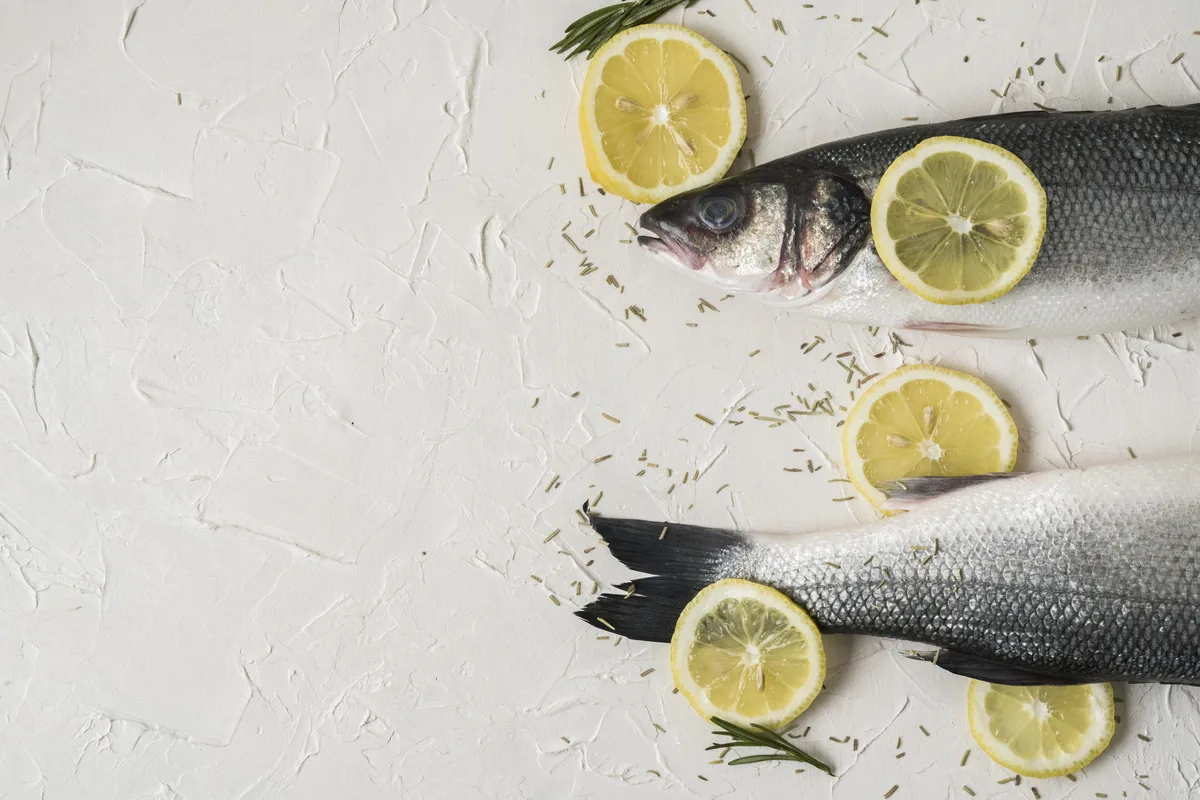
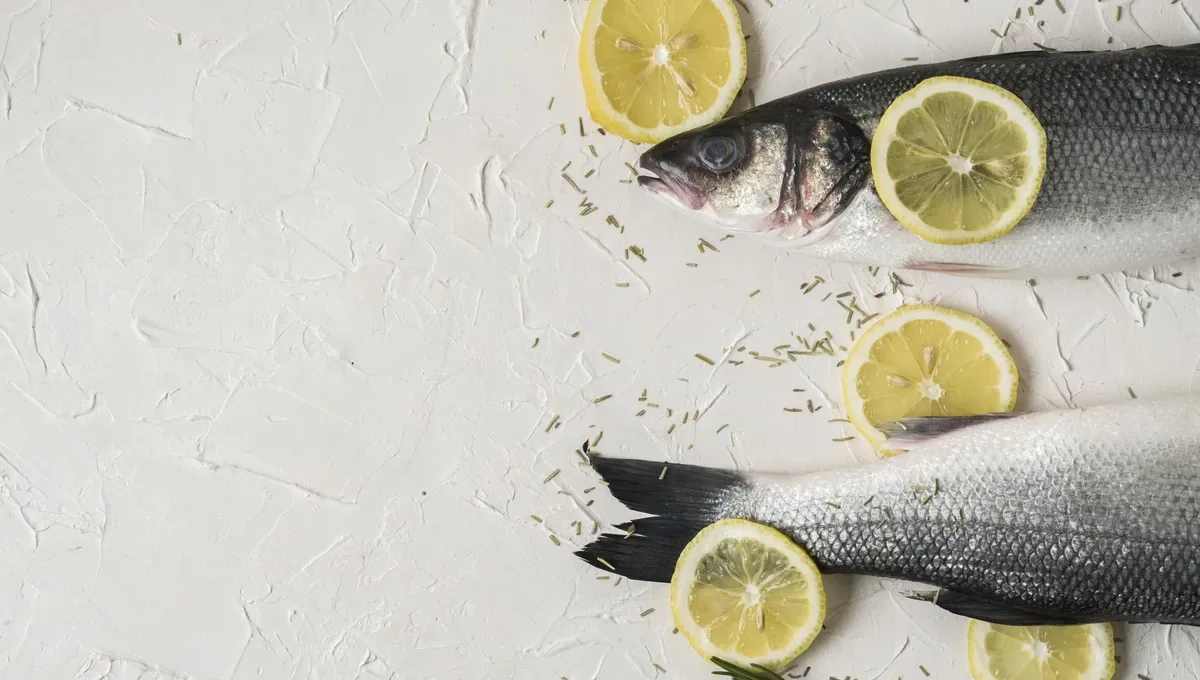
Imágenes de noticias libres y uniformes (1200 × 680)
- Sustituidas 3 imágenes copiadas de terceros: retrato de articulo14 (Dra.
  Lourdes Pérez), foto de LinkedIn de GESTPAR (Mercamadrid) y foto de prensa
  (colegio de Lleida). Las dos últimas, por fotos con licencia CC BY / CC BY-SA
  con su crédito al final de la noticia (ES/EN).
- Quitada la frase «Imagen obtenida del LinkedIn de Proyecto GESTPAR» (ES/EN).
- Resto de imágenes recortadas a 1200 × 680 sin cambiar la foto.
- build.py: huellas actualizadas de las 4 noticias antiguas editadas.
- IMAGENES.md: origen y licencia de las imágenes nuevas.

diff --git a/build.py b/build.py
@@ -142,7 +142,7 @@ LEGACY_NEWS = {
     'es/2024-11-04-el-anisakis-en-nuestros-platos-como-reducir-riesgos-y-proteger-los-oceanos.md':
[1 lines of base64/hex data omitted]
     'es/2024-11-18-expertos-debaten-en-mercamadrid-sobre-el-control-del-anisakis-en-la-distribucion-de-pescado.md':
[2 lines of base64/hex data omitted]
     'es/2024-12-09-el-anisakis-podria-estar-relacionado-con-el-cancer-de-colon-segun-medicos-espanoles.md':
[1 lines of base64/hex data omitted]
     'es/2024-12-23-espana-marca-un-hito-en-la-lucha-contra-el-anisakis-con-un-dispositivo-pionero-validado-por-el-csic.md':
@@ -154,7 +154,7 @@ LEGACY_NEWS = {
     'es/2025-04-14-como-saber-si-tengo-anisakis-causas-sintomas-y-tratamiento.md':
[1 lines of base64/hex data omitted]
     'es/2025-04-16-seguridad-alimentaria-en-comedores-escolares-que-podemos-aprender-del-caso-de-lleida.md':
[2 lines of base64/hex data omitted]
     'es/2025-04-21-cinco-especies-de-pescado-con-mas-riesgo-de-anisakis.md':
[1 lines of base64/hex data omitted]
     'es/2025-04-25-todo-lo-que-debes-saber-sobre-el-anisakis-segun-la-doctora-lourdes-perez-gonzalez.md':
@@ -164,7 +164,7 @@ LEGACY_NEWS = {
     'en/2024-11-04-anisakis-on-our-plates-how-to-reduce-risks-and-protect-the-oceans.md':
[1 lines of base64/hex data omitted]
     'en/2024-11-18-experts-discuss-anisakis-control-in-fish-distribution-at-mercamadrid.md':
[2 lines of base64/hex data omitted]
     'en/2024-12-09-anisakis-may-be-linked-to-colon-cancer-spanish-doctors-say.md':
[1 lines of base64/hex data omitted]
     'en/2024-12-23-spain-marks-a-milestone-in-the-fight-against-anisakis-with-a-pioneering-device-validated-by-csic.md':
@@ -176,7 +176,7 @@ LEGACY_NEWS = {
     'en/2025-04-14-how-do-i-know-if-i-have-anisakis-causes-symptoms-and-treatment.md':
[1 lines of base64/hex data omitted]
     'en/2025-04-16-food-safety-in-school-canteens-what-can-we-learn-from-the-case-of-lleida.md':
[2 lines of base64/hex data omitted]
     'en/2025-04-21-these-are-the-five-fish-species-with-the-highest-risk-of-containing-anisakis.md':
[1 lines of base64/hex data omitted]
     'en/2025-04-25-everything-you-need-to-know-about-anisakis-according-to-dr-lourdes-perez-gonzalez.md':

diff --git a/content/noticias/en/2024-11-18-experts-discuss-anisakis-control-in-fish-distribution-at-mercamadrid.md b/content/noticias/en/2024-11-18-experts-discuss-anisakis-control-in-fish-distribution-at-mercamadrid.md
@@ -4,11 +4,10 @@ date: "2024-11-18"
 image: "/img/n-1719333546552.webp"
 image_width: "1200"
 image_height: "704"
-summary: "Image obtained from the GESTPAR Project LinkedIn. Wholesale markets play an essential role in the distribution of food throughout the national territory, which makes it essential to constantly update the personnel in…"
-description: "Image obtained from the GESTPAR Project LinkedIn. Wholesale markets play an essential role in the distribution of food throughout the national territory, w"
+summary: "Wholesale markets play an essential role in the distribution of food throughout the national territory, which makes it essential to constantly update the personnel in…"
+description: "Wholesale markets play an essential role in the distribution of food throughout the national territory, w"
 translationKey: "2024-11-18-expertos-debaten-en-mercamadrid-sobre-el-control-del-anisakis-en-la-distribucion-de-pescado"
 ---
-<p><em>Image obtained from the GESTPAR Project LinkedIn.</em></p>
 
 <p>Wholesale markets play an essential role in the distribution of food throughout the national territory, which makes it essential to constantly update the personnel in charge of the inspection and official control of foodstuffs. With this objective in mind, on <strong>June 20 and 21, 2024</strong>, the Assembly Hall of the <strong>Mercamadrid</strong> Administrative Center hosted a technical conference aimed at professionals from the administrations and workers involved in the distribution and marketing chain of food products. </p>
 
@@ -31,3 +30,5 @@ translationKey: "2024-11-18-expertos-debaten-en-mercamadrid-sobre-el-control-del
 <p><strong>GESTPAR</strong> 's commitment to research and innovation will make it possible to advance in the protection of public health and strengthen consumer confidence in fish products.</p>
 
 <p>The conference concluded with the promise to continue strengthening collaboration between administrations, scientists and companies in the sector to ensure <strong>a more rigorous and efficient control of anisakis in the food distribution chain.</strong></p>
+
+<p><em>Image: Madrid Salud food safety team at Mercamadrid (“Barbero visita Mercamadrid con los inspectores municipales (03).jpg”), by Diario de Madrid, on <a href="https://commons.wikimedia.org/wiki/File:Barbero_visita_Mercamadrid_con_los_inspectores_municipales_(03).jpg">Wikimedia Commons</a>, licensed under <a href="https://creativecommons.org/licenses/by/4.0/">CC BY 4.0</a> (cropped).</em></p>

diff --git a/content/noticias/es/2024-11-18-expertos-debaten-en-mercamadrid-sobre-el-control-del-anisakis-en-la-distribucion-de-pescado.md b/content/noticias/es/2024-11-18-expertos-debaten-en-mercamadrid-sobre-el-control-del-anisakis-en-la-distribucion-de-pescado.md
@@ -4,11 +4,10 @@ date: "2024-11-18"
 image: "/img/n-1719333546552.webp"
 image_width: "1200"
 image_height: "704"
-summary: "Imagen obtenida del LinkedIn de Proyecto GESTPAR. Los mercados mayoristas desempeñan un papel esencial en la distribución de alimentos en todo el territorio nacional, lo que hace imprescindible la actualización…"
-description: "Imagen obtenida del LinkedIn de Proyecto GESTPAR. Los mercados mayoristas desempeñan un papel esencial en la distribución de alimentos en todo el territori"
+summary: "Los mercados mayoristas desempeñan un papel esencial en la distribución de alimentos en todo el territorio nacional, lo que hace imprescindible la actualización…"
+description: "Los mercados mayoristas desempeñan un papel esencial en la distribución de alimentos en todo el territori"
 translationKey: "2024-11-18-expertos-debaten-en-mercamadrid-sobre-el-control-del-anisakis-en-la-distribucion-de-pescado"
 ---
-<p><em>Imagen obtenida del LinkedIn de Proyecto GESTPAR.</em></p>
 
 
 
@@ -53,3 +52,5 @@ translationKey: "2024-11-18-expertos-debaten-en-mercamadrid-sobre-el-control-del
 
 
 <p>La jornada concluyó con la promesa de seguir fortaleciendo la colaboración entre administraciones, científicos y empresas del sector para garantizar <strong>un control más riguroso y eficiente del anisakis en la cadena de distribución alimentaria</strong>.</p>
+
+<p><em>Imagen: equipo de Seguridad Alimentaria de Madrid Salud en Mercamadrid («Barbero visita Mercamadrid con los inspectores municipales (03).jpg»), de Diario de Madrid, en <a href="https://commons.wikimedia.org/wiki/File:Barbero_visita_Mercamadrid_con_los_inspectores_municipales_(03).jpg">Wikimedia Commons</a>, con licencia <a href="https://creativecommons.org/licenses/by/4.0/deed.es">CC BY 4.0</a> (recortada).</em></p>

diff --git a/IMAGENES.md b/IMAGENES.md
@@ -1,0 +1,11 @@
+# Origen de las imágenes de las noticias
+
+Regla: solo imágenes propias o con licencia libre comprobada (dominio público o CC0; si es CC BY, poner el crédito en la noticia), nunca fotos de prensa ni imágenes desagradables, y todas de 1200 × 680 en WebP.
+
+| Imagen (`img/`) | Origen | Licencia |
+|---|---|---|
+| `n-1719333546552.webp` | Wikimedia Commons, «Barbero visita Mercamadrid con los inspectores municipales (03).jpg» (https://commons.wikimedia.org/wiki/File:Barbero_visita_Mercamadrid_con_los_inspectores_municipales_(03).jpg), de Diario de Madrid, recortada a 1200 × 680 | CC BY 4.0 (crédito puesto en la noticia ES/EN) |
+| `n-679b01a83cee3-r-d-616-56-1.webp` | Wikimedia Commons, «Col·legi Lestonnac.jpg» (https://commons.wikimedia.org/wiki/File:Col%C2%B7legi_Lestonnac.jpg), de AlbertRA, recortada a 1200 × 680 | CC BY-SA 4.0 (crédito puesto en la noticia ES/EN) |
+| `n-lourdes-perez-gonzalez-e1745426618571.webp` | Wikimedia Commons, «Stethoscope and Laptop Computer - Nci-vol-9713-300.jpg» (https://commons.wikimedia.org/wiki/File:Stethoscope_and_Laptop_Computer_-_Nci-vol-9713-300.jpg), recortada a 1200 × 680 | Dominio público |
+
+Estas 3 sustituyen el 23/11/2026 a fotos copiadas de terceros (prensa y LinkedIn ajeno); se mantiene el nombre de archivo para no cambiar las noticias. El resto viene de la web antigua (varias de Freepik), recortadas a 1200 × 680 sin cambiar la foto: origen en revisión (tarea P86).

diff --git a/content/noticias/es/2025-04-16-seguridad-alimentaria-en-comedores-escolares-que-podemos-aprender-del-caso-de-lleida.md b/content/noticias/es/2025-04-16-seguridad-alimentaria-en-comedores-escolares-que-podemos-aprender-del-caso-de-lleida.md
@@ -51,3 +51,5 @@ translationKey: "2025-04-16-seguridad-alimentaria-en-comedores-escolares-que-pod
 
 
 <p>Los incidentes ocurridos en el colegio Lestonnac de Lleida resaltan la importancia de mantener una vigilancia constante y de implementar medidas preventivas para asegurar la calidad de los alimentos en los comedores escolares. La seguridad alimentaria no solo es responsabilidad de las empresas proveedoras, sino también de los centros educativos, las autoridades sanitarias y las familias. En ese esfuerzo conjunto, tecnologías como las de <strong>Tedepad</strong> juegan un papel fundamental, permitiendo tratar las vísceras del pescado antes de devolverlas al mar y reduciendo así la proliferación de parásitos como el anisakis en la cadena alimentaria. Trabajando juntos, desde el origen hasta el plato, podemos garantizar que los estudiantes reciban alimentos seguros y nutritivos que contribuyan a su desarrollo y bienestar.</p>
+
+<p><em>Imagen: «Col·legi Lestonnac», de AlbertRA, en <a href="https://commons.wikimedia.org/wiki/File:Col%C2%B7legi_Lestonnac.jpg">Wikimedia Commons</a>, con licencia <a href="https://creativecommons.org/licenses/by-sa/4.0/deed.es">CC BY-SA 4.0</a> (recortada).</em></p>

diff --git a/content/noticias/en/2025-04-16-food-safety-in-school-canteens-what-can-we-learn-from-the-case-of-lleida.md b/content/noticias/en/2025-04-16-food-safety-in-school-canteens-what-can-we-learn-from-the-case-of-lleida.md
@@ -37,3 +37,5 @@ translationKey: "2025-04-16-seguridad-alimentaria-en-comedores-escolares-que-pod
 
 
 <p>The incidents that occurred at the Lestonnac school in Lleida highlight the importance of maintaining constant vigilance and implementing preventive measures to ensure the quality of food in school canteens. Food safety is not only the responsibility of the supplying companies, but also of the schools, health authorities and families. In this joint effort, technologies such as Tedepad' s play a fundamental role, making it possible to treat fish viscera before returning them to the sea, thus reducing the proliferation of parasites such as anisakis in the food chain. By working together, from source to plate, we can ensure that students receive safe and nutritious food that contributes to their development and well-being.   </p>
+
+<p><em>Image: “Col·legi Lestonnac” by AlbertRA, on <a href="https://commons.wikimedia.org/wiki/File:Col%C2%B7legi_Lestonnac.jpg">Wikimedia Commons</a>, licensed under <a href="https://creativecommons.org/licenses/by-sa/4.0/">CC BY-SA 4.0</a> (cropped).</em></p>
